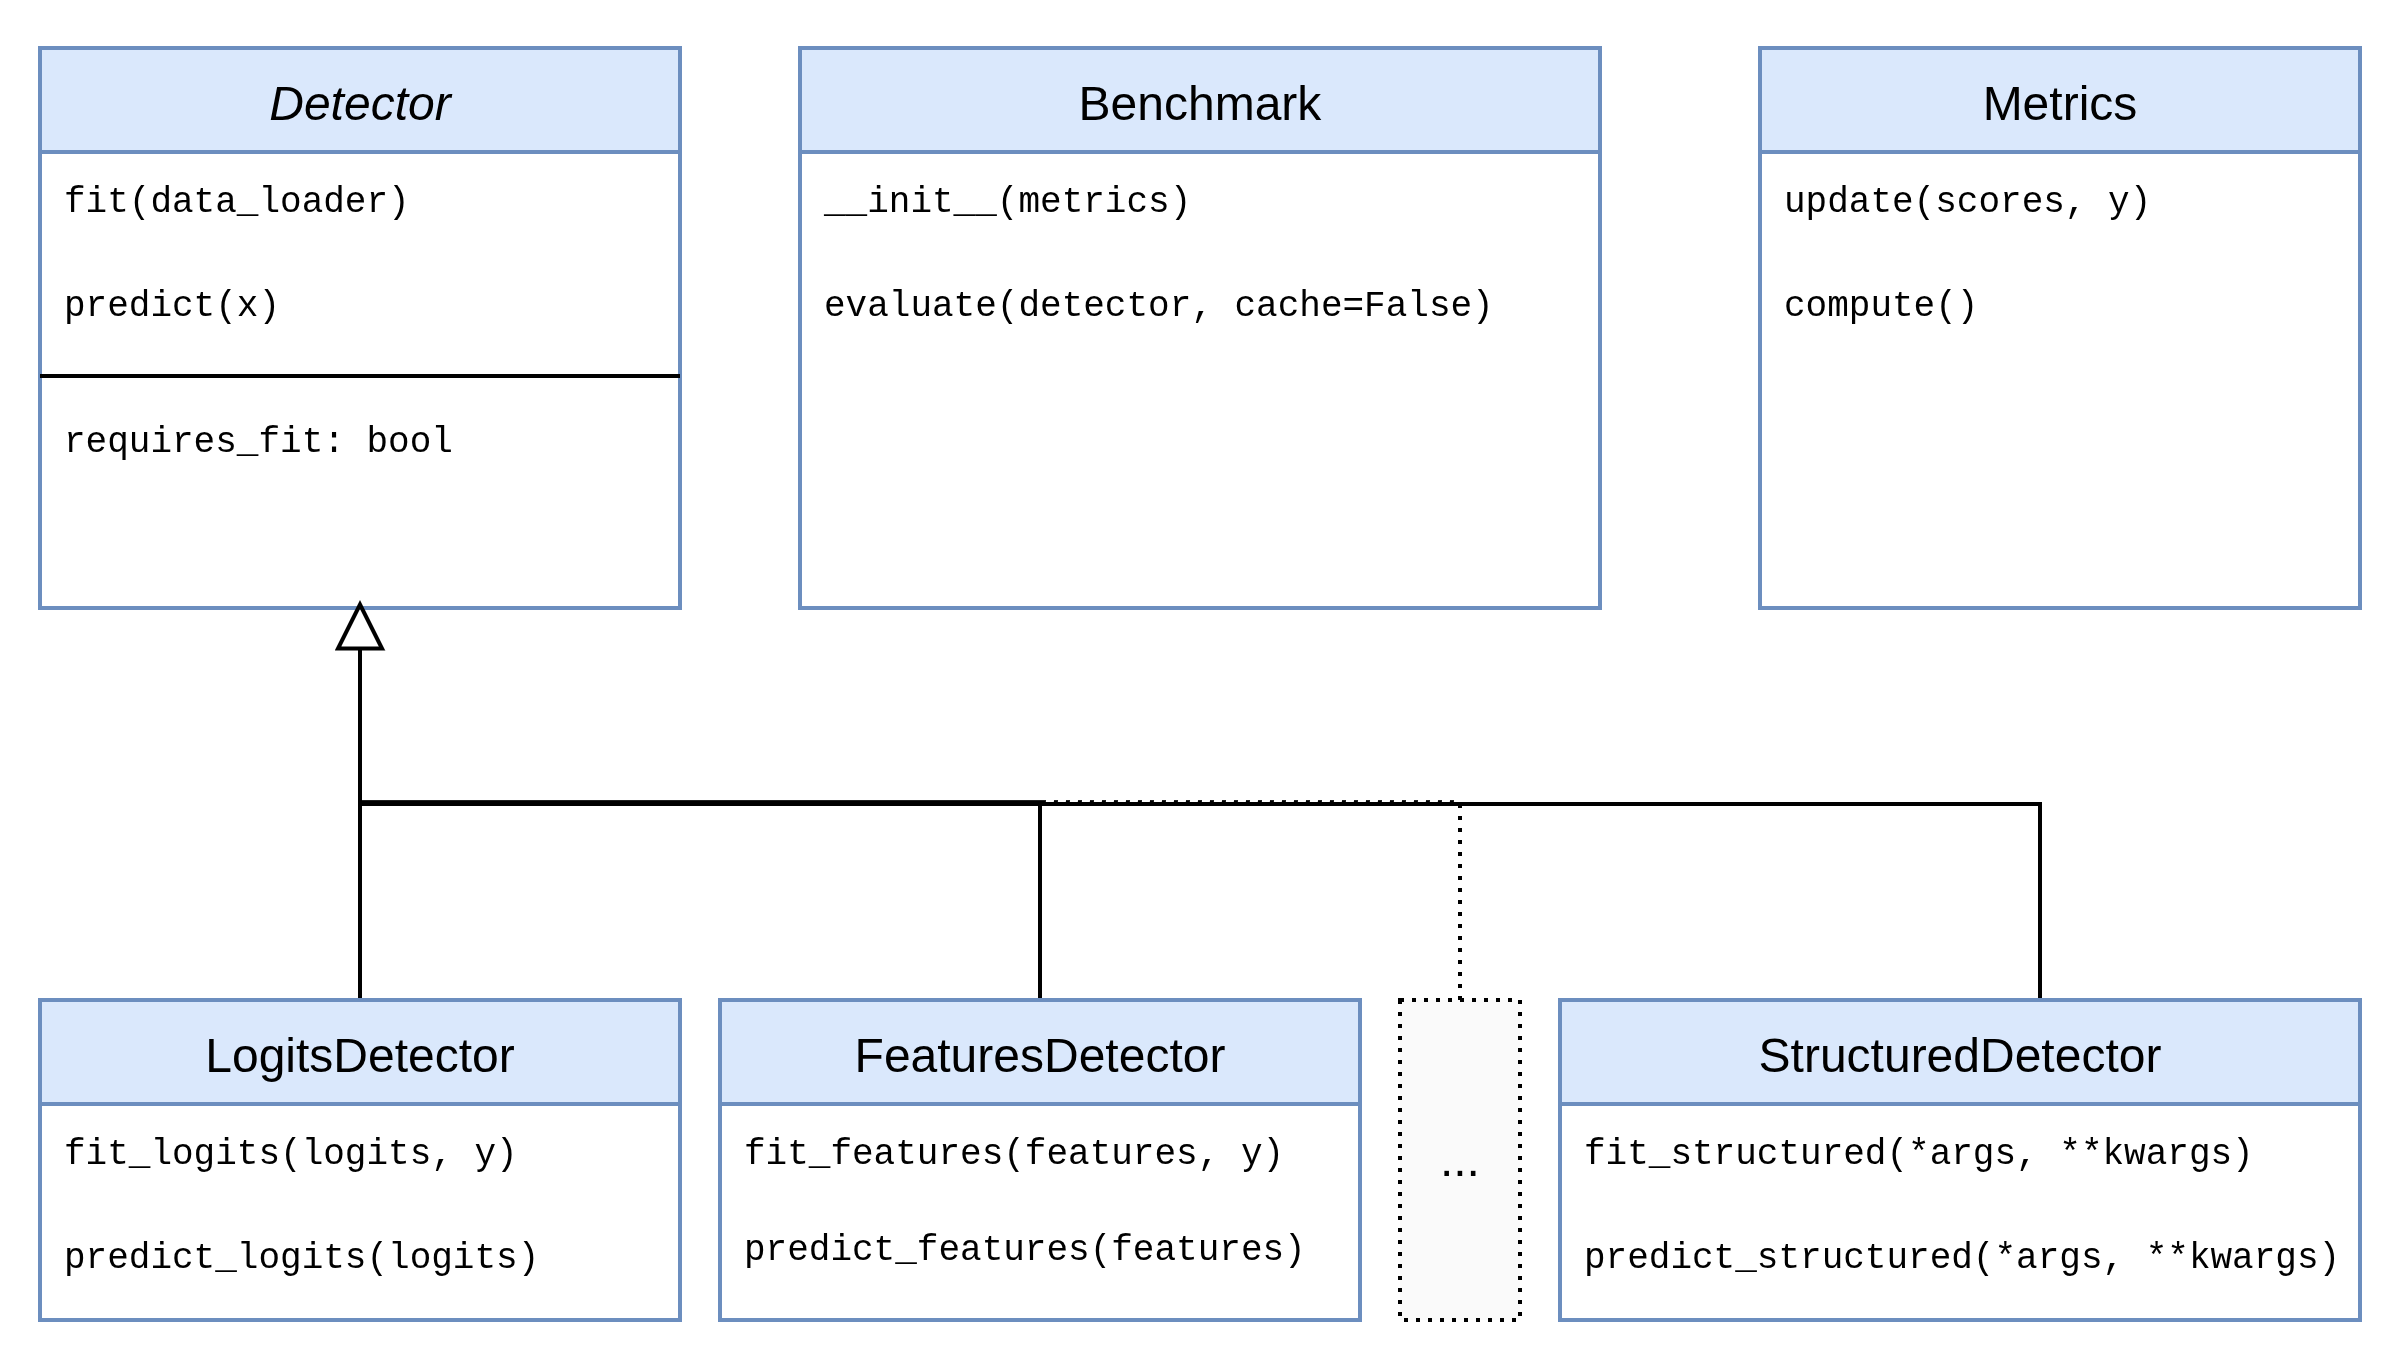
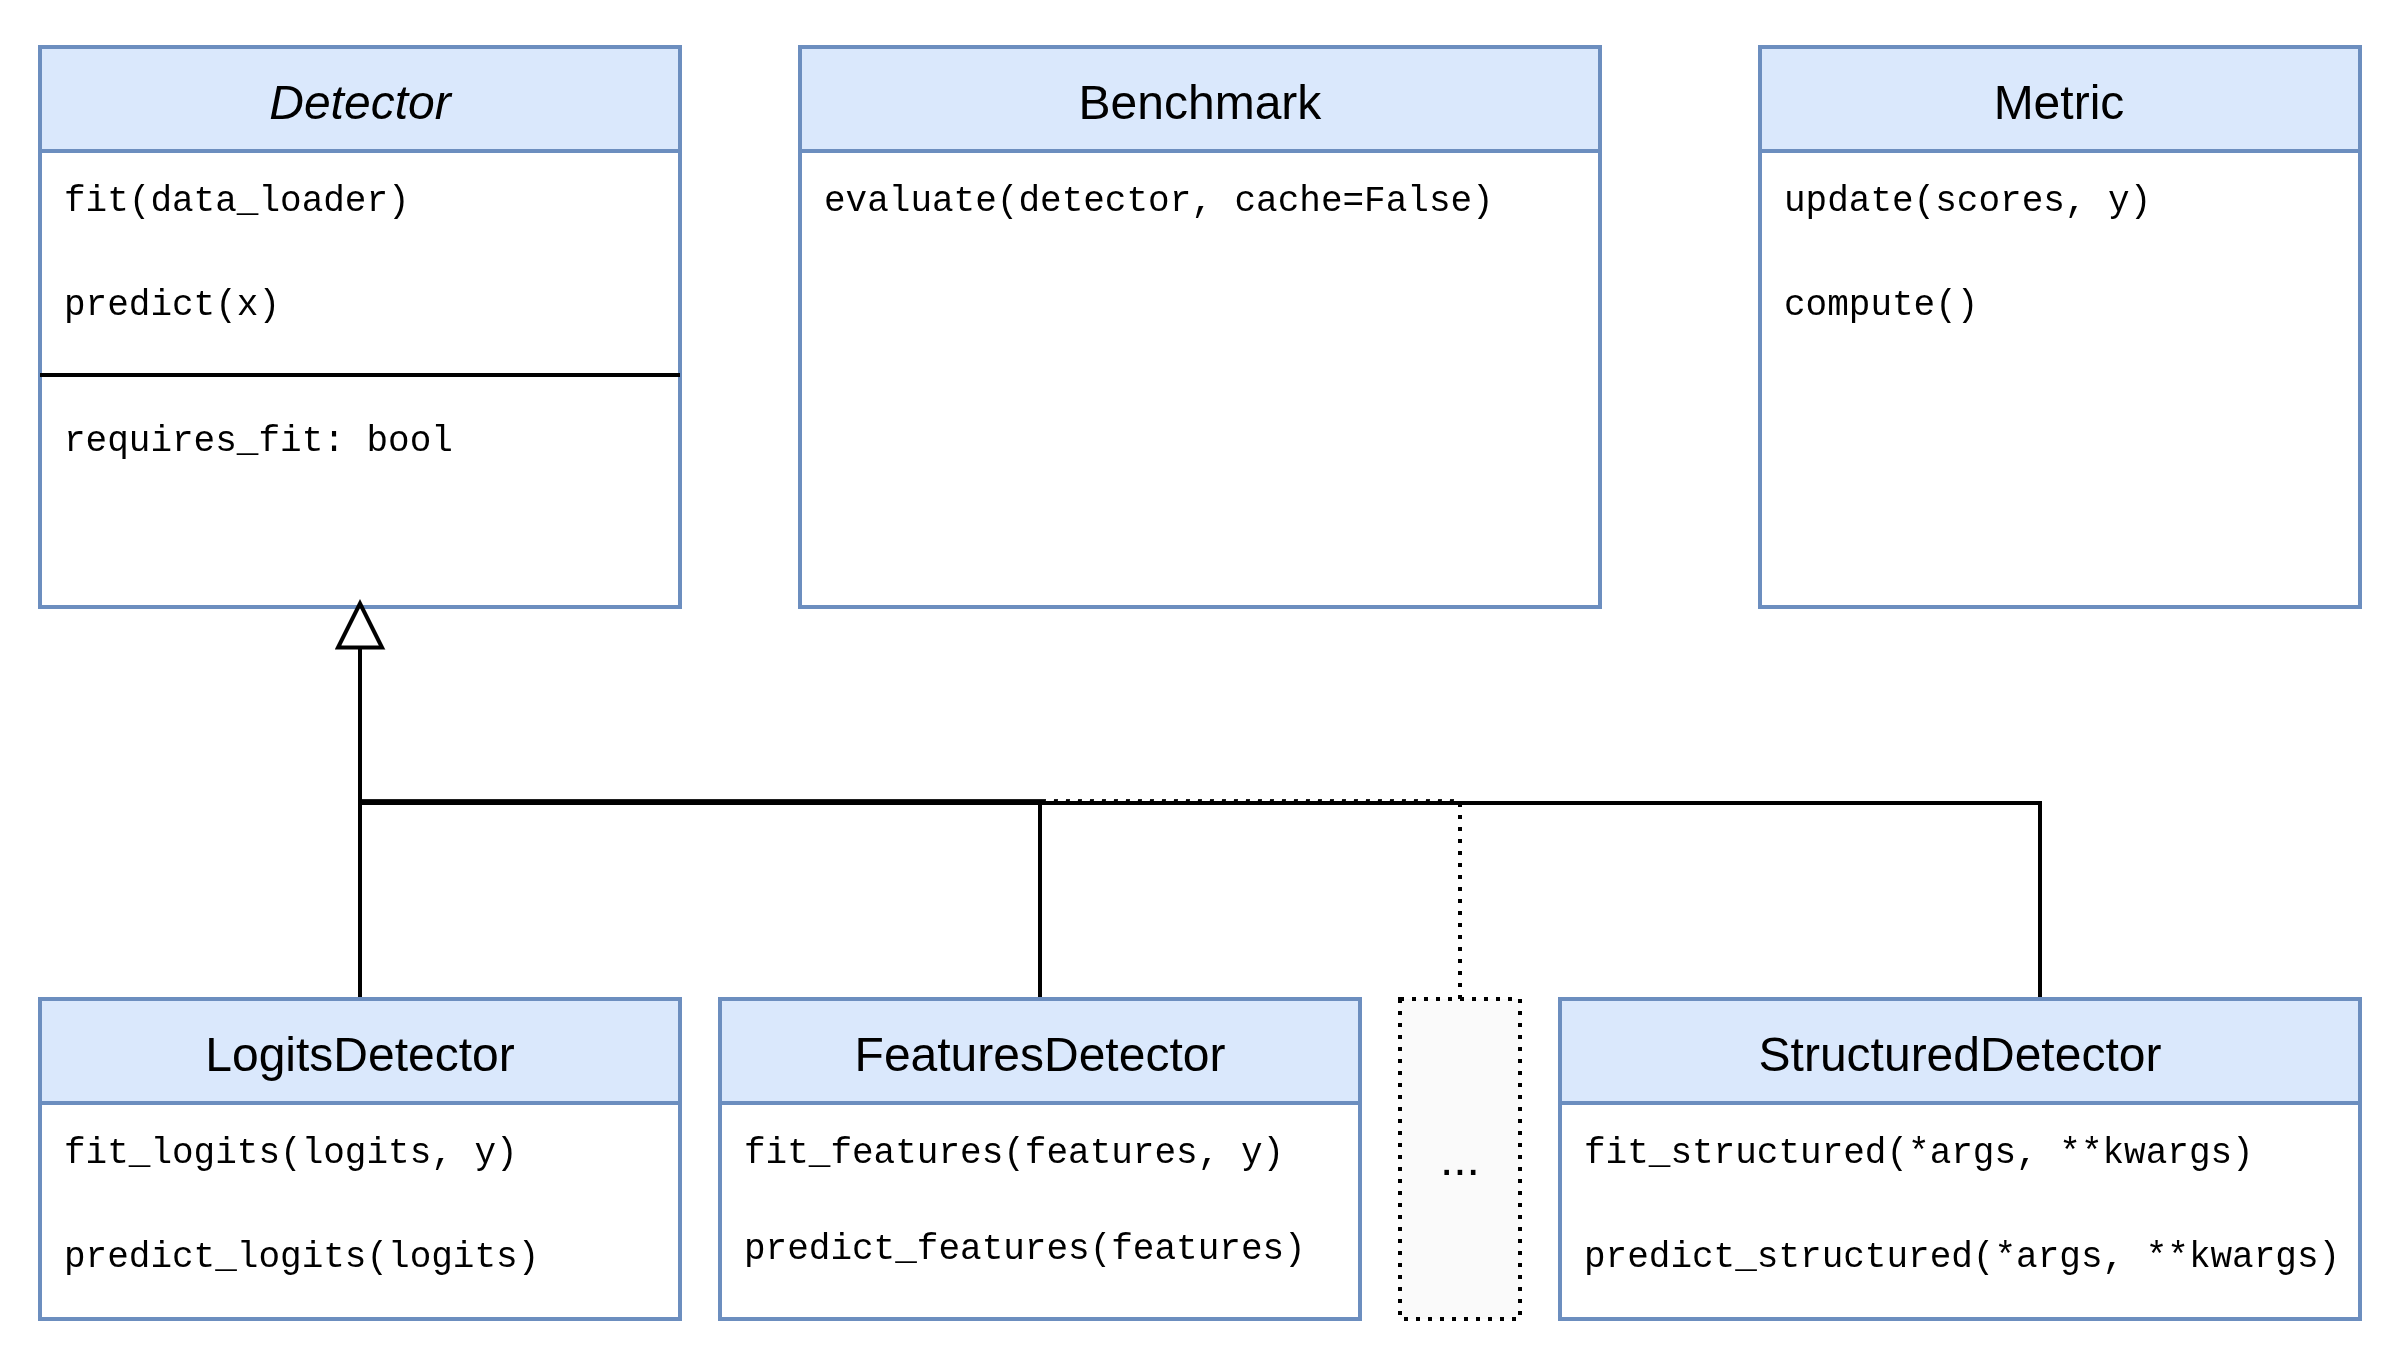
prepared for final submission

diff --git a/paper/paper.md b/paper/paper.md
@@ -26,14 +26,14 @@ bibliography: paper.bib
 
 # Summary
 
-Machine learning models, particularly deep neural networks can produce unreliable predictions when they encounter data that differs from what they were trained on. Detecting such cases - commonly referred to as out-of-distribution (OOD) detection - is particularly important in safety-critical applications [@yang2021generalized].
+Machine learning models, particularly deep neural networks, can produce unreliable predictions when they encounter data that differs from what they were trained on. Detecting such cases -- commonly referred to as out-of-distribution (OOD) detection -- is particularly important in safety-critical applications [@yang2021generalized].
 Despite rapid progress in the field, practical experimentation remains fragmented. Implementations are often tied to individual papers, interfaces differ across methods, and evaluation setups can be difficult to reproduce.
 
-`pytorch-ood` is a Python library that provides a unified framework for OOD detection in the PyTorch deep learning ecosystem [@paszke2019pytorch]. It encompasses a broad range of detection methods, training objectives, datasets, pre-trained models, and evaluation tools under a consistent interface. This allows users to apply different methods, compare them under shared conditions, and integrate them into existing workflows with minimal additional code.
+`pytorch-ood` is a Python library that provides a unified framework for OOD detection in the PyTorch deep learning ecosystem [@paszke2019pytorch]. It encompasses a broad range of detection methods, training objectives, datasets, pretrained models, and evaluation tools under a consistent interface. This allows users to apply different methods, compare them under shared conditions, and integrate them into existing workflows with minimal additional code.
 The library is designed to support flexible experimentation rather than a single fixed benchmark. It is accompanied by extensive documentation and unit tests, enabling reliable reuse and facilitating reproducible research.
 
 
-# Statement of need
+# Statement of Need
 
 Research on OOD detection faces a recurring methodological problem: many published methods are conceptually comparable but difficult to compare in practice. Small implementation differences in preprocessing, score orientation, or metric computation can materially affect conclusions. At the same time, reproducing baselines often requires re-implementing substantial amounts of auxiliary code for dataset handling, evaluation, and model integration. This duplication slows progress and makes empirical results harder to audit.
 
@@ -41,10 +41,10 @@ Research on OOD detection faces a recurring methodological problem: many publish
 
 The library is intended for researchers developing and evaluating OOD detection methods in PyTorch. It reduces engineering overhead compared to bespoke per-paper implementations while remaining more flexible than fixed benchmark pipelines. In this sense, `pytorch-ood` provides a unified and reproducible interface for OOD detection experiments, bridging the gap between ad-hoc research code and standardized benchmarking frameworks.
 
-An earlier version of the library was introduced in [@kirchheim2022pytorch]. The present work reflects a substantially extended and matured system.
+An earlier version of the library was introduced in @kirchheim2022pytorch. The present work reflects a substantially extended and matured system.
 
 
-# State of the field
+# State of the Field
 
 Several tools for OOD detection exist, many of which were released after `pytorch-ood`. Frameworks such as OpenOOD [@yang2022openood] emphasize standardized benchmark pipelines, enabling consistent large-scale evaluation across datasets and methods. Other tools, such as FrOoDo [@stieber2022froodo], focus on specific application domains, for example medical imaging.
 
@@ -59,15 +59,16 @@ It is therefore best understood as complementary to benchmark-centric frameworks
 The design of `pytorch-ood` is guided by the goal of enabling *comparable and reusable OOD detection experiments* while maintaining flexibility for research.
 A central design choice is interface unification.
 
-### Detectors
+## Detectors
 
 All OOD detection methods implement a shared `Detector` abstraction with a `predict()` method that maps inputs to outlier scores and, where required, an optional `fit()` method for calibration or training.
-This defines a minimal contract: given an input tensor $x$, a detector produces a scalar outlier score $s(x) \in \mathbb{R}$ indicating how likely it is to be out-of-distribution.
+This defines a minimal contract: given an input tensor $x$, a detector produces a tensor of outlier scores $s(x)$, where larger values indicate stronger evidence that the corresponding inputs or spatial locations are out-of-distribution.
+For classification, this typically yields one score per input sample, while segmentation methods may instead produce spatially resolved score maps.
 As a result, different detectors can be applied interchangeably and compared directly, without requiring knowledge of their internal implementation or score computation.
 The trade-off is a slight restriction on method-specific interfaces in exchange for consistent and comparable usage across detectors.
 
 
-### Representation-specific Interfaces
+## Representation-Specific Interfaces
 
 OOD detectors can be differentiated based on the kind of input that they work on.
 Usually, they operate on neural representations of the input in some layer of a deep neural network.
@@ -87,7 +88,7 @@ While this separation reduces redundant computation and simplifies controlled co
 ![Overview of Relevant Abstractions](arch.png)
 
 
-### Evaluation Semantics
+## Evaluation Semantics
 
 A third design principle is the standardization of evaluation semantics.
 In practice, OOD detection experiments often differ in label encoding or metric assumptions, which can lead to subtle and hard-to-detect errors in evaluation.
@@ -96,14 +97,14 @@ To mitigate this, `pytorch-ood` enforces a canonical evaluation protocol across 
 While this slightly reduces flexibility, it eliminates ambiguity in metric computation and ensures that results are directly comparable across methods.
 
 
-### Benchmarks
+## Benchmarks
 
 Finally, the library provides a benchmark abstraction that exposes a common `evaluate()` interface.
 This enables the reproduction of established evaluation protocols while remaining compatible with custom training setups.
 The design balances two competing goals: supporting standardized experiments and preserving the ability to compose new ones.
 In practice, benchmark objects allow users to evaluate multiple detectors on shared datasets with minimal boilerplate while retaining full control over other experimental details.
 
-For example, a minimal evaluation workflow to replicate the OpenOOD v1.5 CIFAR-10 benchmark [@yang2022openood] with the pre-trained model and baseline detector from one of the first OOD detection benchmark papers [@hendrycks2016baseline] and an additional, more recent detector [@liu2023gen] can be written directly as:
+For example, a minimal evaluation workflow to replicate the OpenOOD v1.5 CIFAR-10 benchmark [@zhang2023openood] with a pretrained WideResNet-40-2, the maximum softmax probability baseline detector [@hendrycks2016baseline], and a more recent detector [@liu2023gen] can be written directly as:
 
 ```python
 import torch
